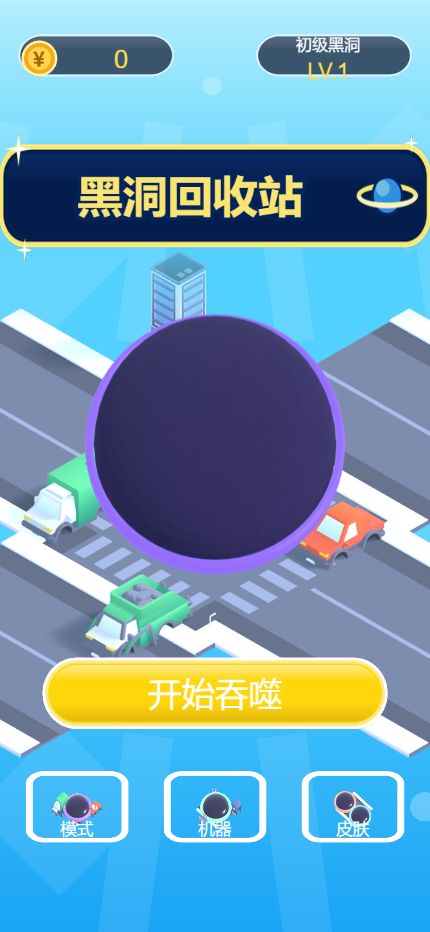
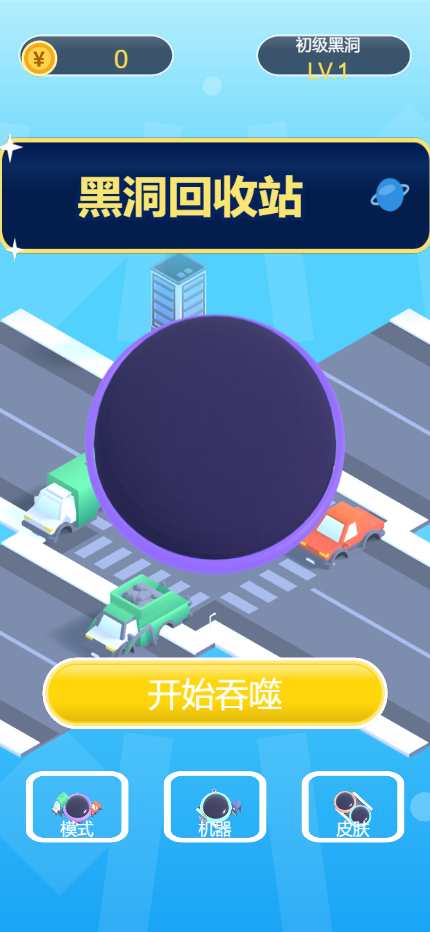
feat(v13): the Home brand plate moves from PIL to editable SVG
Third and last vector set with a live consumer. `logo_brand_home` is the only
brand asset the scene references -- `plate_brand` has zero references and
`mode_card_shelf` is hidden by `ModeSelectPageController`, so both are dead art
and migrating them would be work with no effect.

Carries NO text, which is why it can be a vector at all: the brand name is a
Creator Label beside it, so the plate is a shape. It is a gold-bordered rounded
rect over a gradient, with a ringed planet at the right and two four-point
sparkles at the left corners.

Measured from the shipped PNG: the solid extent is x 25..575, y 30..152 in a
600x180 canvas; the border is 5px of #f7e171; the fill's lightest point (#0a2a60)
sits a quarter down and settles to #031d4d below halfway; the planet is a 35px
disc at (520, 90) in #3090e0.

`author_ui_vectors.py` now emits three sets and takes an intrinsic size for
assets whose SVG is not square, so the brand plate rasterises at 600x180 rather
than being forced through the square path the icons use.

Checked on the page rather than in isolation: the Home sheet renders the plate
with its Label, the planet and both sparkles.

Verified: build PASS, test:full 529 PASS with no failures, verify:layout PASS,
verify:ui-kit PASS, review:art all four PASS.

PHASE F now covers every UI asset that is (a) live and (b) a vector-authorable
shape. What is left in `art-source/vector/` is either dead art or a composite of
[…]

Changed region(s): [[0.0, 0.1245, 1.0, 0.28]]

diff --git a/scripts/author_ui_vectors.py b/scripts/author_ui_vectors.py
@@ -149,6 +149,59 @@ AVATAR = 96
 AVATAR_VOID = '#0a0618'
 
 
+BRAND_W, BRAND_H = 600, 180
+BRAND_GOLD = '#f7e171'
+
+
+def sparkle(cx, cy, radius):
+    """A four-point star: the two decorative marks on the brand plate."""
+    waist = radius * 0.20
+    return (f'<path d="M{cx} {cy - radius} L{cx + waist} {cy - waist}'
+            f' L{cx + radius} {cy} L{cx + waist} {cy + waist}'
+            f' L{cx} {cy + radius} L{cx - waist} {cy + waist}'
+            f' L{cx - radius} {cy} L{cx - waist} {cy - waist} Z" fill="#ffffff"/>')
+
+
+def brand_svg():
+    """The Home brand plate: a gold-bordered rounded rect with a ringed planet.
+
+    Carries NO text -- the brand name is a Creator Label beside it, because baked
+    text is uneditable and unlocalisable.
+
+    Measured from the shipped PNG: the solid extent is x 25..575, y 30..152 in a
+    600x180 canvas; the border is 5px of #f7e171; the fill is a gradient whose
+    lightest point (#0a2a60) sits a quarter down and settles to #031d4d below
+    halfway; the planet is a 35px disc at (520, 90) in #3090e0. The two four-point
+    sparkles sit at the plate's left corners.
+    """
+    return '\n'.join([
+        f'<svg xmlns="http://www.w3.org/2000/svg" width="{BRAND_W}" height="{BRAND_H}"'
+        f' viewBox="0 0 {BRAND_W} {BRAND_H}">',
+        '  <defs>',
+        '    <linearGradient id="plate" gradientUnits="userSpaceOnUse"'
+        ' x1="300" y1="30" x2="300" y2="152">',
+        '      <stop offset="0" stop-color="#00154b"/>',
+        '      <stop offset="0.24" stop-color="#0a2a60"/>',
+        '      <stop offset="0.46" stop-color="#031d4d"/>',
+        '      <stop offset="1" stop-color="#031d4d"/>',
+        '    </linearGradient>',
+        '  </defs>',
+        '  <rect x="27.5" y="32.5" width="545" height="117" rx="22"'
+        ' fill="url(#plate)" stroke="' + BRAND_GOLD + '" stroke-width="5"/>',
+        '  <g transform="translate(520 90) rotate(-18)">',
+        '    <ellipse rx="24" ry="6.5" fill="none" stroke="#8fd0f5"'
+        ' stroke-width="3" opacity="0.9"/>',
+        '    <circle r="17.5" fill="#3090e0"/>',
+        '    <ellipse rx="11" ry="4.5" cx="-2" cy="-6" fill="#7fc4f0"'
+        ' opacity="0.55"/>',
+        '  </g>',
+        '  ' + sparkle(40, 40, 17),
+        '  ' + sparkle(46, 148, 13),
+        '</svg>',
+        '',
+    ])
+
+
 def avatar_svg():
     """The leaderboard avatar: a soft white glow, a near-black disc, a sheen.
 
@@ -205,14 +258,18 @@ def main():
     for name, markup in icons().items():
         sets[f'icon-stat-{name}'] = (SIZE, markup, f'icon_stat_{name}')
     sets['avatar-blackhole'] = (AVATAR, avatar_svg(), 'avatar_blackhole')
+    sets['brand-plate-home'] = (None, brand_svg(), 'logo_brand_home')
     for name, (size, markup, stem) in sets.items():
+        # `None` means the SVG carries its own width/height, so the rasteriser
+        # takes the intrinsic size rather than a square one.
+        size_arg = f'{size}x{size}' if size else f'{BRAND_W}x{BRAND_H}'
         svg_path = os.path.join(SVG_DIR, f'{name}.svg')
         with open(svg_path, 'w', encoding='utf-8', newline='\n') as handle:
             handle.write(markup)
         png_path = os.path.join(png_dir, f'{stem}.png')
         result = subprocess.run(
             ['node', os.path.join(ROOT, 'scripts', 'rasterize_svg.mjs'),
-             svg_path, png_path, f'{size}x{size}'],
+             svg_path, png_path, size_arg],
             cwd=ROOT, capture_output=True, text=True, shell=(os.name == 'nt'))
         if result.returncode != 0:
             print(result.stdout)
